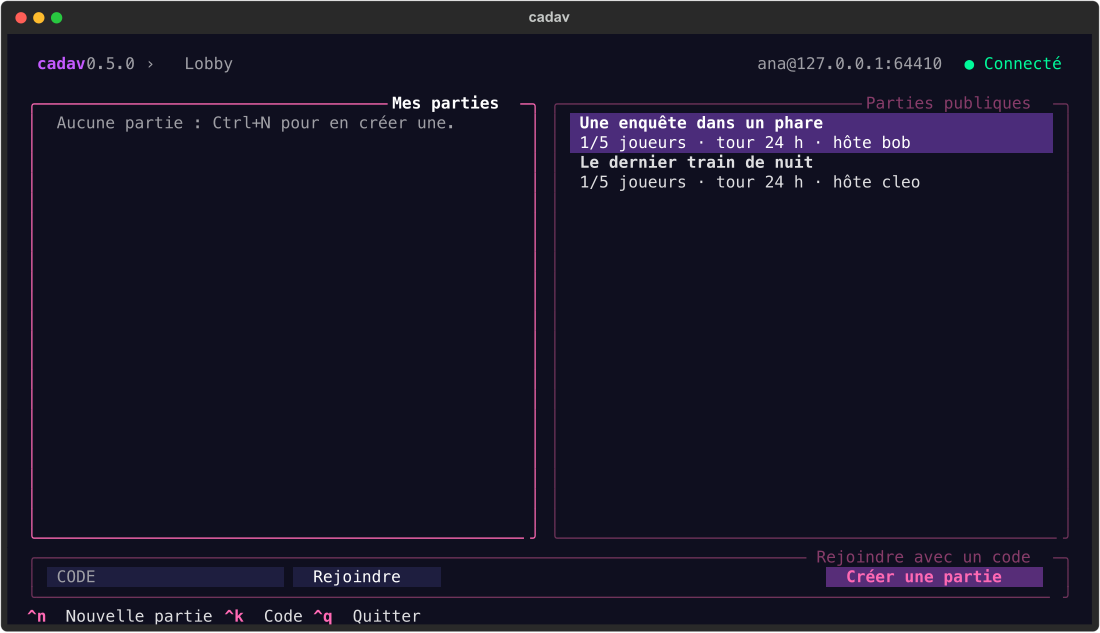
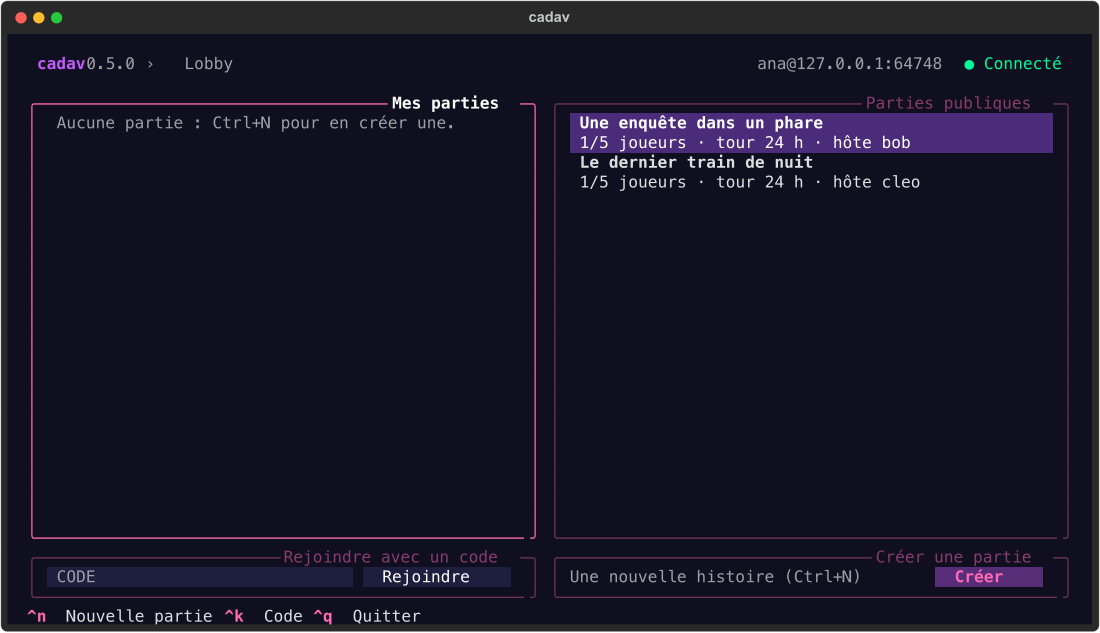
Lobby : panneaux Rejoindre et Créer côte à côte ; focus sur le champ N ; barre de focus des champs de la couleur des menus

Changed region(s): [[0.4945, 0.8705, 0.9273, 0.9305], [0.2473, 0.8705, 0.4945, 0.9305], [0.8345, 0.09, 0.8655, 0.1201]]

diff --git a/tests/test_client.py b/tests/test_client.py
@@ -1015,14 +1015,18 @@ def region(app, selector):
     return app.screen.query_one(selector).region
 
 
-async def test_lobby_layout_fills_the_height_with_the_join_panel_at_the_bottom(backend):
+async def test_lobby_layout_fills_the_height_with_two_panels_side_by_side_at_the_bottom(backend):
     app = await ready(backend)
     async with app.run_test(size=SIZE) as pilot:
         await logged_in(backend, pilot, app)
-        mine, public, join = region(app, "#mine-pane"), region(app, "#public-pane"), region(app, "#join-pane")
+        mine, public = region(app, "#mine-pane"), region(app, "#public-pane")
+        join, create = region(app, "#join-pane"), region(app, "#create-pane")
         assert mine.height == public.height and mine.height > 20  # both stretch over the remaining height
-        assert join.y > mine.bottom - 1 and join.bottom == SIZE[1] - 1  # right above the footer line
-        assert join.x == mine.x and join.right == public.right  # as wide as the two panels
+        assert join.y == create.y and join.bottom == create.bottom == SIZE[1] - 1  # right above the footer line
+        assert join.x == mine.x and join.right == mine.right  # "Rejoindre" under "Mes parties"
+        assert create.x == public.x and create.right == public.right  # "Créer" at its right
+        assert app.screen.query_one("#create-pane").border_title == "Créer une partie"
+        assert app.screen.query_one("#join-pane").border_title == "Rejoindre avec un code"
 
 
 async def test_create_layout_same_height_and_actions_bottom_right(backend):
@@ -1082,3 +1086,65 @@ async def test_final_layout_panels_full_height_and_aligned_with_the_bottom_panel
         assert info.height == story.height and info.height > 20
         assert story.right == save.right and info.x == save.x  # same left and right edges as the bottom panel
         assert region(app, "#back").right >= save.right - 2  # buttons on the right
+
+
+# --- choices point the focus at what they reveal; focus bars --------------------
+
+
+async def test_choosing_last_words_focuses_the_number_field(backend):
+    app = await ready(backend)
+    async with app.run_test(size=SIZE) as pilot:
+        await logged_in(backend, pilot, app)
+        await pilot.press("ctrl+n")
+        await until(pilot, lambda: isinstance(app.screen, CreateScreen))
+        await pilot.press("down", "down", "down", "down")
+        assert focused_id(app) == "primer"
+        assert not app.screen.query_one("#primer-row").display
+        await pilot.press("enter")
+        await pilot.pause()
+        await pilot.press("down", "enter")  # "N derniers mots"
+        await pilot.pause()
+        assert app.screen.query_one("#primer-row").display and focused_id(app) == "primer-words"
+        await pilot.press(*"5", "enter")  # then on to the next field
+        assert app.screen.query_one("#primer-words", Input).value == "5" and focused_id(app) == "min-words"
+        # another choice goes to the following field as usual
+        await pilot.press("up", "up", "enter")
+        await pilot.pause()
+        await pilot.press("down", "enter")  # "Aucune": the number field disappears
+        await pilot.pause()
+        assert not app.screen.query_one("#primer-row").display and focused_id(app) == "min-words"
+
+
+async def test_choosing_a_custom_duration_focuses_its_field(backend):
+    app = await ready(backend)
+    async with app.run_test(size=SIZE) as pilot:
+        await logged_in(backend, pilot, app)
+        await pilot.press("ctrl+n")
+        await until(pilot, lambda: isinstance(app.screen, CreateScreen))
+        await pilot.press("down", "down", "enter")  # the duration choice
+        await pilot.pause()
+        await pilot.press("down", "enter")  # "Personnalisée…"
+        await pilot.pause()
+        assert focused_id(app) == "custom-deadline"
+
+
+async def test_every_field_has_the_same_focus_bar_as_the_menus(backend):
+    app = await ready(backend)
+    async with app.run_test(size=SIZE) as pilot:
+        await logged_in(backend, pilot, app)
+        await pilot.press("ctrl+n")
+        await until(pilot, lambda: isinstance(app.screen, CreateScreen))
+        focus_color = app.get_css_variables()["cadav-focus"].lower()
+        await pilot.press("down", "down", "down")
+        assert not app.screen.query_one("#min-words", Input).has_class("-invalid")  # empty numbers are valid
+        bars = {}
+        for ident in ("theme", "min-words", "max-words", "primer-words"):
+            field = app.screen.query_one(f"#{ident}", Input)
+            if not field.display:
+                continue
+            field.focus()
+            await pilot.pause()
+            kind, color = field.styles.border_left
+            bars[ident] = (kind, color.hex.lower())
+        assert set(bars) == {"theme", "min-words", "max-words"}
+        assert set(bars.values()) == {("outer", focus_color)}, bars

diff --git a/cadav/client/screens.py b/cadav/client/screens.py
@@ -191,8 +191,11 @@ class LobbyScreen(Screen):
     #mine-pane, #public-pane { width: 1fr; height: 100%; }
     #mine-pane { margin-right: 1; }
     #my-games, #public-games { height: 1fr; max-height: 100%; }
-    #join-pane Input { width: 24; margin-right: 1; }
-    #join-pane .grow { width: 1fr; }
+    #bottom-row { width: 100%; height: auto; padding: 0 2; }
+    #join-pane, #create-pane { width: 1fr; height: 3; }
+    #join-pane { margin-right: 1; }
+    #join-pane Input { width: 1fr; margin-right: 1; }
+    #create-hint { width: 1fr; height: 1; }
     """
 
     def compose(self) -> ComposeResult:
@@ -205,12 +208,15 @@ class LobbyScreen(Screen):
             with Vertical(id="public-pane", classes="pane") as public:
                 public.border_title = "Parties publiques"
                 yield NavOptionList(id="public-games")
-        with Horizontal(id="join-pane", classes="pane bottom") as join:
-            join.border_title = "Rejoindre avec un code"
-            yield NavInput(placeholder="CODE", id="code", max_length=5)
-            yield Button("Rejoindre", id="join-code")
-            yield Static("", classes="grow")
-            yield Button("Créer une partie", id="create", variant="primary")
+        with Horizontal(id="bottom-row", classes="bottom-row"):
+            with Horizontal(id="join-pane", classes="pane") as join:
+                join.border_title = "Rejoindre avec un code"
+                yield NavInput(placeholder="CODE", id="code", max_length=5)
+                yield Button("Rejoindre", id="join-code")
+            with Horizontal(id="create-pane", classes="pane") as create:
+                create.border_title = "Créer une partie"
+                yield Static("Une nouvelle histoire (Ctrl+N)", id="create-hint", classes="muted")
+                yield Button("Créer", id="create", variant="primary")
         yield Footer(show_command_palette=False)
 
     def on_mount(self) -> None:
@@ -325,9 +331,9 @@ class CreateScreen(Screen):
                         value="last_sentence", allow_blank=False, id="primer",
                     ),
                 )
-                yield _field("", NavInput(placeholder="N (défaut 12)", id="primer-words", type="integer"), row_id="primer-row")
-                yield _field("Mots minimum", NavInput(placeholder="facultatif", id="min-words", type="integer"))
-                yield _field("Mots maximum", NavInput(placeholder="facultatif", id="max-words", type="integer"))
+                yield _field("", NavInput(placeholder="N (défaut 12)", id="primer-words", type="integer", valid_empty=True), row_id="primer-row")
+                yield _field("Mots minimum", NavInput(placeholder="facultatif", id="min-words", type="integer", valid_empty=True))
+                yield _field("Mots maximum", NavInput(placeholder="facultatif", id="max-words", type="integer", valid_empty=True))
         with Horizontal(classes="pane bottom actions"):
             yield Static("", id="form-error", classes="error")
             yield Button("Créer", id="submit", variant="primary")
@@ -337,6 +343,15 @@ class CreateScreen(Screen):
     def on_mount(self) -> None:
         self._sync_visibility()
         self.query_one("#visibility", Select).focus()
+
+    def focus_after_choice(self, select):
+        """Where the focus goes once ``select`` has been chosen in (None: the next element)."""
+        self._sync_visibility()  # the fields it reveals exist by now
+        if select.id == "primer" and select.value == "last_words":
+            return self.query_one("#primer-words")
+        if select.id == "deadline" and select.value == "custom":
+            return self.query_one("#custom-deadline")
+        return None
 
     def _sync_visibility(self) -> None:
         self.query_one("#custom-row").display = self.query_one("#deadline", Select).value == "custom"

diff --git a/cadav/client/theme.py b/cadav/client/theme.py
@@ -177,11 +177,11 @@ OptionList > .option-list--option-disabled { color: $cadav-muted; }
 .frow { height: 1; margin-bottom: 1; }
 .flabel { width: 18; color: $cadav-muted; }
 Input { border: none; height: 1; padding: 0 1; background: $surface; width: 1fr; color: $cadav-strong; }
-Input:focus { border: none; border-left: outer $accent; padding-left: 0; background: $surface; }
-Input.-invalid, Input.-invalid:focus { border: none; }
+Input:focus { border: none; border-left: outer $cadav-focus; padding-left: 0; background: $surface; }
+Input.-invalid, Input.-invalid:focus { border: none; border-left: outer $error; padding-left: 0; }
 Input > .input--placeholder { color: $cadav-muted; }
 NavInput > .input--cursor { background: transparent; color: $cadav-strong; text-style: none; }
-NavInput.-editing, NavInput.-editing:focus { background: $cadav-editing; border-left: outer $accent; padding-left: 0; }
+NavInput.-editing, NavInput.-editing:focus { background: $cadav-editing; border-left: outer $cadav-focus; padding-left: 0; }
 NavInput.-editing > .input--cursor { background: $input-cursor-background; color: $cadav-on-color; text-style: bold; }
 Select { height: 1; width: 1fr; }
 Select > SelectCurrent { border: none; height: 1; padding: 0 1; background: $surface; color: $cadav-strong; }
@@ -211,7 +211,7 @@ Button:disabled { opacity: 0.4; }
 
 /* multi-line text */
 TextArea { border: none; background: $surface; color: $cadav-strong; padding: 0 1; }
-TextArea:focus { border: none; border-left: outer $accent; padding-left: 0; background: $surface; }
+TextArea:focus { border: none; border-left: outer $cadav-focus; padding-left: 0; background: $surface; }
 TextArea > .text-area--cursor-line { background: $surface; }
 TextArea > .text-area--placeholder { color: $cadav-muted; }
 

diff --git a/cadav/client/widgets.py b/cadav/client/widgets.py
@@ -136,7 +136,16 @@ class NavSelect(Select, inherit_bindings=False):
     def _chosen(self, event: SelectOverlay.UpdateSelection) -> None:
         # Textual's own handler (run just after) applies the choice and refocuses the select:
         # once it is done, move on to the next element.
-        self.call_after_refresh(self.screen.focus_next)
+        self.call_after_refresh(self._move_on)
+
+    def _move_on(self) -> None:
+        screen = self.screen
+        chooser = getattr(screen, "focus_after_choice", None)
+        target = chooser(self) if chooser else None
+        if target is not None:
+            target.focus()
+        else:
+            screen.focus_next()
 
     def compose(self):
         yield SelectCurrent(self.prompt)

diff --git a/cahier-des-charges.md b/cahier-des-charges.md
@@ -1,4 +1,4 @@
-# cadav, cadavre exquis en terminal — Cahier des charges v1 (révision 14)
+# cadav, cadavre exquis en terminal — Cahier des charges v1 (révision 15)
 
 ## 1. Objectif
 Jeu de cadavre exquis textuel multijoueur, joué dans le terminal via une TUI. Un serveur central gère le lobby et toutes les parties. Les joueurs s'inscrivent (très léger), créent ou rejoignent des parties en attente de joueurs, et écrivent à tour de rôle une histoire commune.
@@ -176,7 +176,7 @@ Notifications push (ntfy.sh ou webhook), i18n. Idées plus lointaines : mode gui
 - Salle d'attente : code, joueurs (♛ = hôte), réglages, prochaine étape. `Ctrl+L` lance (hôte, 3 joueurs minimum), `Ctrl+O` quitte la partie, `Échap` revient au lobby.
 - Les captures du README se régénèrent avec `scripts/screenshots.py` (serveur jetable + pilote de test Textual + `rsvg-convert`).
 
-## 20. Navigation clavier, installation (révision 14)
+## 20. Navigation clavier, installation (révision 15)
 - `cadav/client/widgets.py` : `NavInput` (champ à deux modes), `NavSelect` (choix : seuls `Entrée` et `Espace` l'ouvrent, `↑` `↓` ne l'ouvrent plus) et `NavOptionList` (liste qui passe le focus à l'élément voisin à ses extrémités, `Espace` comme `Entrée`). Les touches de navigation globales (`↑` `←` précédent, `↓` `→` suivant, `Tab`) sont des liaisons de l'application ; un menu ouvert ou un champ en cours de modification les reçoit en premier.
 - Hors modification, `NavInput` ne consomme ni les flèches ni `Espace` (voir §21 pour la saisie directe). En modification, `↑` et `↓` sont sans effet, `←` `→` déplacent le curseur, un clic entre dans le champ, et perdre le focus valide la saisie.
 - `Entrée` dans un champ valide le champ puis fait passer le focus à l'élément suivant (le champ « code » du lobby rejoint en plus la partie) ; `Échap` annule sans bouger. Choisir une option dans un menu (`Entrée` ou `Espace`) fait de même ; refermer le menu avec `Échap`, ou taper une lettre sur un choix fermé, laisse le focus en place. Sur l'écran de connexion, on valide la connexion avec le bouton « Entrer ».
@@ -184,10 +184,10 @@ Notifications push (ntfy.sh ou webhook), i18n. Idées plus lointaines : mode gui
 - Le paquet Python s'appelle `cadav/` (renommé depuis `cadavre/`). La commande est installable globalement : `uv tool install --editable .` (ou `pipx install --editable .`) place `cadav` dans `~/.local/bin`.
 - Données du serveur par défaut : `$XDG_DATA_HOME/cadav` ou `~/.local/share/cadav` (et non plus `./data`), pour que `cadav serve` se comporte de la même façon quel que soit le dossier courant.
 
-## 21. Palette, focus, saisie directe (révision 14)
+## 21. Palette, focus, saisie directe (révision 15)
 - Palette par défaut : « galaxy », le thème de base de Posting repris sans modification (fichier `themes.py` de Posting) : primaire `#C45AFF`, secondaire `#a684e8`, avertissement `#FFD700`, erreur `#FF4500`, succès `#00FA9A`, accent `#FF69B4`, fond `#0F0F1F`, surface `#1E1E3F`, panneau `#2D2B55`, pied de page transparent, curseur de saisie `#C45AFF`. Pas de couleur de texte imposée : Textual la calcule, comme pour Posting (`auto 87 %`). Les nuances propres à cadav (gris du texte secondaire, ligne sélectionnée `#4b2c7a`, bordure atténuée, blanc d'édition) sont dérivées de ces couleurs. Option : `solarized-dark` (accent orange Solarized `#cb4b16`). Choix par `cadav play --theme …` ou par la clé `theme` de `config.json`.
 - La feuille de style n'emploie que des variables de thème (`$accent`, `$cadav-focus`, `$cadav-editing`…) ; les styles Rich des écrans lisent la palette courante (`theme.colors`).
-- Focus (repris du CSS de Posting, `posting.scss`) : panneaux `border: round $accent 40 %`, titre à droite en `$accent 50 %` (même couleur que le cadre) ; le panneau qui contient le focus passe à `round $accent 100 %` (toujours un cadre fin) avec un titre blanc gras. Champs et zones de texte : barre `outer $accent` sur le bord gauche quand ils ont le focus ; en modification, fond `$panel` et curseur plein (`input-cursor-background` = primaire, comme dans le thème galaxy). Ligne de liste, choix et bouton sélectionnés : « block cursor » = fond primaire, texte de la couleur du fond, gras ; ligne sélectionnée d'une liste sans focus : violet foncé `#4b2c7a`.
+- Focus (repris du CSS de Posting, `posting.scss`) : panneaux `border: round $accent 40 %`, titre à droite en `$accent 50 %` (même couleur que le cadre) ; le panneau qui contient le focus passe à `round $accent 100 %` (toujours un cadre fin) avec un titre blanc gras. Champs et zones de texte : barre `outer` de la couleur du focus (primaire, la même que les menus, listes et boutons) sur le bord gauche quand ils ont le focus, pour les champs texte comme pour les champs numériques ; en modification, fond `$panel` et curseur plein (`input-cursor-background` = primaire, comme dans le thème galaxy). Ligne de liste, choix et bouton sélectionnés : « block cursor » = fond primaire, texte de la couleur du fond, gras ; ligne sélectionnée d'une liste sans focus : violet foncé `#4b2c7a`.
 - Raccourcis : Lobby `Ctrl+N` (nouvelle partie), `Ctrl+K` (code) ; Création `Ctrl+S` ; Salle d'attente `Ctrl+L` (lancer), `Ctrl+O` (quitter la partie) ; partout `Ctrl+Q`, `Échap` pour revenir. Les lettres sont donc toujours du texte.
 - Saisie directe : sur un `NavInput` qui n'est pas en modification, un caractère imprimable (sauf Espace) entre en modification, vide le champ et s'y inscrit ; `Échap` rétablit la valeur d'avant. Sur un `NavSelect` fermé, taper une lettre ou un chiffre (accumulés pendant 1 s) choisit la première option correspondante. Dans le menu ouvert, `Espace` valide comme `Entrée`.
 
@@ -211,18 +211,22 @@ Notifications push (ntfy.sh ou webhook), i18n. Idées plus lointaines : mode gui
 - Paquet : nom `cadav`, version unique dans `cadav/__version__` (0.5.0), `cadav --version`, métadonnées (`readme`, URLs, classifiers). Installation : `pipx install git+https://github.com/charlescoiffier/cadav` (ou `uv tool install`). Pas de publication sur PyPI à ce stade, ni de licence choisie.
 - CI : après les tests, un job construit la roue, l'installe dans un environnement vierge et lance `cadav --version`, `cadav serve --help` et `cadav play --help` ; la roue est gardée 7 jours comme artefact.
 
-## 24. Fidélité à Posting (révision 14)
+## 24. Fidélité à Posting (révision 15)
 Relevé sur le dépôt de Posting (`posting.scss`, `app.py`, `widgets/select.py`, `themes.py`) et sur une capture de l'application :
 - En-tête : `padding: 1 3` (trois lignes), nom en gras et version en atténué, `utilisateur@hôte` à droite en atténué. Chez cadav : `cadav <version> › <écran>` à gauche, `pseudo@serveur ● état` à droite.
 - Pied de page : sans fond (transparent), `padding-left: 2`, touches en couleur d'accent et en gras, descriptions en texte normal ; pas de palette de commandes.
 - Choix (`Select`) : `Entrée`, `Espace` ouvrent ; `↑` `↓` déplacent le focus d'un champ à l'autre ; dans le menu ouvert `Entrée` et `Espace` valident. C'est le comportement de `PostingSelect` / `PostingSelectOverlay`, déjà celui de cadav.
 - Corps des écrans : marges latérales de 2 colonnes.
 
-## 25. Mise en page des écrans (révision 14)
+## 25. Mise en page des écrans (révision 15)
 Structure commune : barre du haut, bandeau éventuel, **corps pleine hauteur** (`height: 1fr`, largeur 100 % avec 2 colonnes de marge), puis un **panneau du bas** (`.bottom`, mêmes marges que le corps) juste au-dessus du pied de page.
-- Lobby : « Mes parties » et « Parties publiques » occupent toute la hauteur restante ; le panneau « Rejoindre avec un code » est en bas (champ et bouton à gauche, « Créer une partie » à droite).
+- Lobby : « Mes parties » et « Parties publiques » occupent toute la hauteur restante ; en bas, deux panneaux côte à côte, de la même largeur que les deux panneaux du dessus : « Rejoindre avec un code » à gauche (champ et bouton) et « Créer une partie » à droite (bouton, rappel de `Ctrl+N`).
 - Nouvelle partie : « Partie » et « Écriture » ont la même hauteur (toute la hauteur) ; le panneau du bas contient le message d'erreur à gauche et les boutons Créer et Annuler alignés à droite.
 - Salle d'attente : deux colonnes pleine hauteur, le dernier panneau de chaque colonne (« Joueurs », « Prochaine étape ») s'étire ; boutons alignés à droite dans le panneau du bas.
 - Partie : colonne de gauche pleine hauteur (« Partie » s'étire, « Échéance du tour » en dessous), « Ton texte » prend toute la hauteur de la colonne de droite (la zone de saisie aussi) ; quand ce n'est pas ton tour, « En cours » prend cette hauteur ; Envoyer et Retour sont alignés à droite dans le panneau du bas (Envoyer n'est affiché que quand c'est ton tour).
 - Écran final : « Partie terminée » et « L'histoire » pleine hauteur ; bords gauche et droit alignés sur ceux du panneau du bas « Garder l'histoire », dont les boutons sont à droite.
 - Les tests vérifient ces géométries (régions des panneaux et des boutons).
+
+## 26. Focus après un choix, champs numériques (révision 15)
+- Après un choix dans un menu, `NavSelect` demande à l'écran où mettre le focus (`focus_after_choice`) ; sans réponse, c'est l'élément suivant. Formulaire de création : choisir « N derniers mots » met le focus sur le champ N (qui vient d'apparaître) ; choisir « Personnalisée… » le met sur le champ de durée.
+- Les champs numériques (N, mots minimum, mots maximum) acceptent d'être vides (`valid_empty`) : ils ne sont plus marqués invalides au départ, ce qui supprimait leur barre de focus. Un champ réellement invalide reçoit une barre rouge (`$error`), comme dans Posting.
